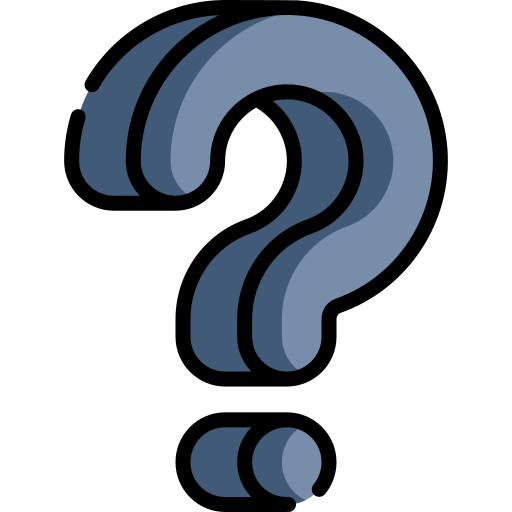
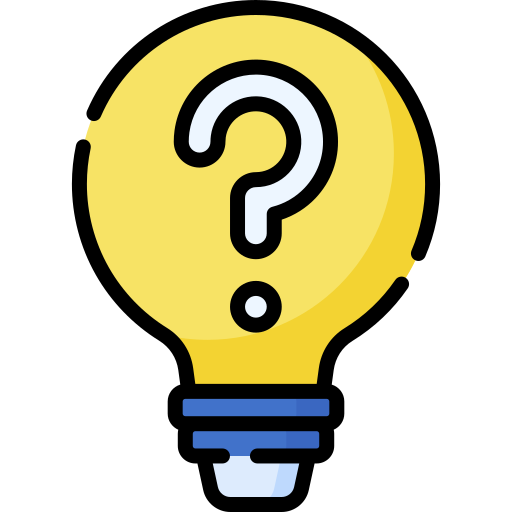
Add files via upload

diff --git a/style.css b/style.css
@@ -1,18 +1,21 @@
 :root {
     --background-light: #6be1f9;
-    --background-dark: #0acbfa;
-    --other-button-main: #778da9;
-    --other-button-dark: #415a77;
+    --background-dark: #41d1f6;
+    --other-button-main: #1ed1fb;
+    --other-button-dark: #1c98cd;
+    --other-button-text: #071d52;
     --nickname-input-main: #eaeaea;
     --nickname-input-dark: #b7b7b7;
+    --nickname-input-text: #303030;
     --skins-button-main: #ff9568;
     --skins-button-dark: #ff7c42;
+    --skins-button-text: #6b2000;
     --play-button-main: #66bb6a;
     --play-button-dark: #3a883e;
-    --stats-button-main: #ff4d6d;
-    --stats-button-dark: #c9184a;
-    --background-orange: #66331d;
-    --background-green: #1f5022;
+    --play-button-text: #1a411c;
+    --records-button-main: #ff4d6d;
+    --records-button-dark: #c9184a;
+    --records-button-text: #620d25;
     --white: #ffffff;
     --black: #000000;
 }
@@ -26,6 +29,10 @@
     -khtml-user-select: none;
     -moz-user-select: none;
     -ms-user-select: none;
+    -webkit-user-drag: none;
+    -khtml-user-drag: none;
+    -moz-user-drag: none;
+    -o-user-drag: none;
     -webkit-tap-highlight-color: transparent;
     box-sizing: border-box;
 }
@@ -97,7 +104,7 @@ button {
 }
 
 .scenes > .menu > .ui > .lobby > .nickname {
-    margin-bottom: 6px;
+    margin-bottom: 24px;
 }
 
 .scenes > .menu > .ui > .lobby > .nickname > input {
@@ -105,12 +112,15 @@ button {
     border-right: none;
     border-top: solid 4px var(--nickname-input-main);
     border-bottom: solid 4px var(--nickname-input-dark);
+    outline: solid 1px var(--nickname-input-text);
     background: var(--nickname-input-main);
     transform: skew(-5deg);
     font-weight: 500;
     font-size: 24px;
-    padding: 4px;
+    padding: 8px;
     width: 100%;
+    max-width: 400px;
+    border-radius: 10px 0;
 }
 
 .scenes > .menu > .ui > .lobby > .nickname > input::placeholder {
@@ -140,14 +150,18 @@ button {
     text-transform: uppercase;
     border-left: none;
     border-right: none;
+    font-family: 'Jost', sans-serif;
     border-top: solid 4px var(--skins-button-main);
     border-bottom: solid 4px var(--skins-button-dark);
+    outline: solid 1px var(--skins-button-text);
     background: var(--skins-button-main);
+    color: var(--skins-button-text);
     transform: skew(-5deg);
     font-weight: 700;
-    font-size: 24px;
-    padding: 4px 24px;
+    font-size: 20px;
+    padding: 8px 24px;
     letter-spacing: 1px;
+    border-radius: 10px 0;
 }
 
 .scenes > .menu > .ui > .lobby > .buttons > .first > .skins > button:hover {
@@ -156,7 +170,10 @@ button {
 
 .scenes > .menu > .ui > .lobby > .buttons > .first > .skins > button > img {
     width: 28px;
-    margin-right: 6px;
+    margin-right: 16px;
+    transform: scale(1.5);
+    position: relative;
+    bottom: 1px;
 }
 
 .scenes > .menu > .ui > .lobby > .buttons > .first > .play {
@@ -170,14 +187,18 @@ button {
     text-transform: uppercase;
     border-left: none;
     border-right: none;
+    font-family: 'Jost', sans-serif;
     border-top: solid 4px var(--play-button-main);
     border-bottom: solid 4px var(--play-button-dark);
+    outline: solid 1px var(--play-button-text);
     background: var(--play-button-main);
+    color: var(--play-button-text);
     transform: skew(-5deg);
     font-weight: 700;
-    font-size: 24px;
-    padding: 4px 24px;
+    font-size: 20px;
+    padding: 8px 24px;
     letter-spacing: 1px;
+    border-radius: 10px 0;
 }
 
 .scenes > .menu > .ui > .lobby > .buttons > .first > .play > button:hover {
@@ -186,57 +207,81 @@ button {
 
 .scenes > .menu > .ui > .lobby > .buttons > .first > .play > button > img {
     width: 28px;
-    margin-left: 8px;
+    margin-right: 16px;
+    transform: scale(1.5);
+    position: relative;
+    bottom: 1px;
 }
 
-.scenes > .menu > .ui > .lobby > .buttons > .second > .stats {
+.scenes > .menu > .ui > .lobby > .buttons > .second > .records {
     margin-right: 4px;
 }
 
-.scenes > .menu > .ui > .lobby > .buttons > .second > .stats > button {
+.scenes > .menu > .ui > .lobby > .buttons > .second > .records > button {
     display: flex;
     justify-content: center;
     align-items: center;
     text-transform: uppercase;
     border-left: none;
     border-right: none;
-    border-top: solid 4px var(--stats-button-main);
-    border-bottom: solid 4px var(--stats-button-dark);
-    background: var(--stats-button-main);
+    font-family: 'Jost', sans-serif;
+    border-top: solid 4px var(--records-button-main);
+    border-bottom: solid 4px var(--records-button-dark);
+    outline: solid 1px var(--records-button-text);
+    background: var(--records-button-main);
+    color: var(--records-button-text);
     transform: skew(-5deg);
     font-weight: 700;
-    font-size: 24px;
-    padding: 4px 24px;
+    font-size: 20px;
+    padding: 8px 24px;
     letter-spacing: 1px;
+    border-radius: 10px 0;
 }
 
-.scenes > .menu > .ui > .lobby > .buttons > .second > .stats > button:hover {
+.scenes > .menu > .ui > .lobby > .buttons > .second > .records > button:hover {
     transform: scale(0.95) skew(-5deg);
 }
 
-.scenes > .menu > .ui > .lobby > .buttons > .second > .stats > button > img {
+.scenes > .menu > .ui > .lobby > .buttons > .second > .records > button > img {
     width: 28px;
-    margin-left: 8px;
+    margin-right: 12px;
+    transform: scale(1.5);
+    position: relative;
+    bottom: 1px;
 }
 
 .scenes > .menu > .ui > .lobby > .buttons > .second > .other {
     display: flex;
+    margin-left: 4px;
+}
+
+.scenes > .menu > .ui > .lobby > .buttons > .second > .other > .info {
+    margin-right: 4px;
+}
+
+.scenes > .menu > .ui > .lobby > .buttons > .second > .other > .settings {
+    margin-left: 4px;
 }
 
 .scenes > .menu > .ui > .lobby > .buttons > .second > .other > div > button {
     display: flex;
+    justify-content: center;
     align-items: center;
     text-transform: uppercase;
     border-left: none;
     border-right: none;
+    font-family: 'Jost', sans-serif;
     border-top: solid 4px var(--other-button-main);
     border-bottom: solid 4px var(--other-button-dark);
+    outline: solid 1px var(--other-button-text);
     background: var(--other-button-main);
+    color: var(--other-button-text);
     transform: skew(-5deg);
     font-weight: 700;
-    font-size: 24px;
-    padding: 4px 8px;
-    margin: 0 4px;
+    font-size: 20px;
+    padding: 8px 16px;
+    letter-spacing: 1px;
+    border-radius: 10px 0;
 }
 
 .scenes > .menu > .ui > .lobby > .buttons > .second > .other > div > button:hover {
@@ -245,6 +290,9 @@ button {
 
 .scenes > .menu > .ui > .lobby > .buttons > .second > .other > div > button > img {
     width: 28px;
+    transform: scale(1.5);
+    position: relative;
+    bottom: 1px;
 }
 
 .scenes > .info {

diff --git a/index.html b/index.html
@@ -10,7 +10,7 @@
     <link rel="preconnect" href="https://fonts.googleapis.com">
     <link rel="preconnect" href="https://fonts.gstatic.com" crossorigin>
 
-    <link rel="stylesheet" href="https://fonts.googleapis.com/css2?family=Bitcount+Prop+Double:wght@100..900&display=swap">
+    <link rel="stylesheet" href="https://fonts.googleapis.com/css2?family=Jost:ital,wght@0,100..900;1,100..900&display=swap">
     <link rel="stylesheet" href="https://fonts.googleapis.com/css2?family=Iosevka+Charon+Mono:ital,wght@0,300;0,400;0,500;0,700;1,300;1,400;1,500;1,700&display=swap">
     <link rel="stylesheet" href="https://fonts.googleapis.com/css2?family=Inter:ital,opsz,wght@0,14..32,100..900;1,14..32,100..900&display=swap">
 
@@ -34,12 +34,12 @@
                                     <button><img src="images/skins.png"> Скины</button>
                                 </div>
                                 <div class="play">
-                                    <button>Играть <img src="images/play.png"></button>
+                                    <button><img src="images/play.png"> Играть</button>
                                 </div>
                             </div>
                             <div class="second">
-                                <div class="stats">
-                                    <button>Статистика <img src="images/stats.png"></button>
+                                <div class="records">
+                                    <button><img src="images/records.png"> Рекорды</button>
                                 </div>
                                 <div class="other">
                                     <div class="info">
